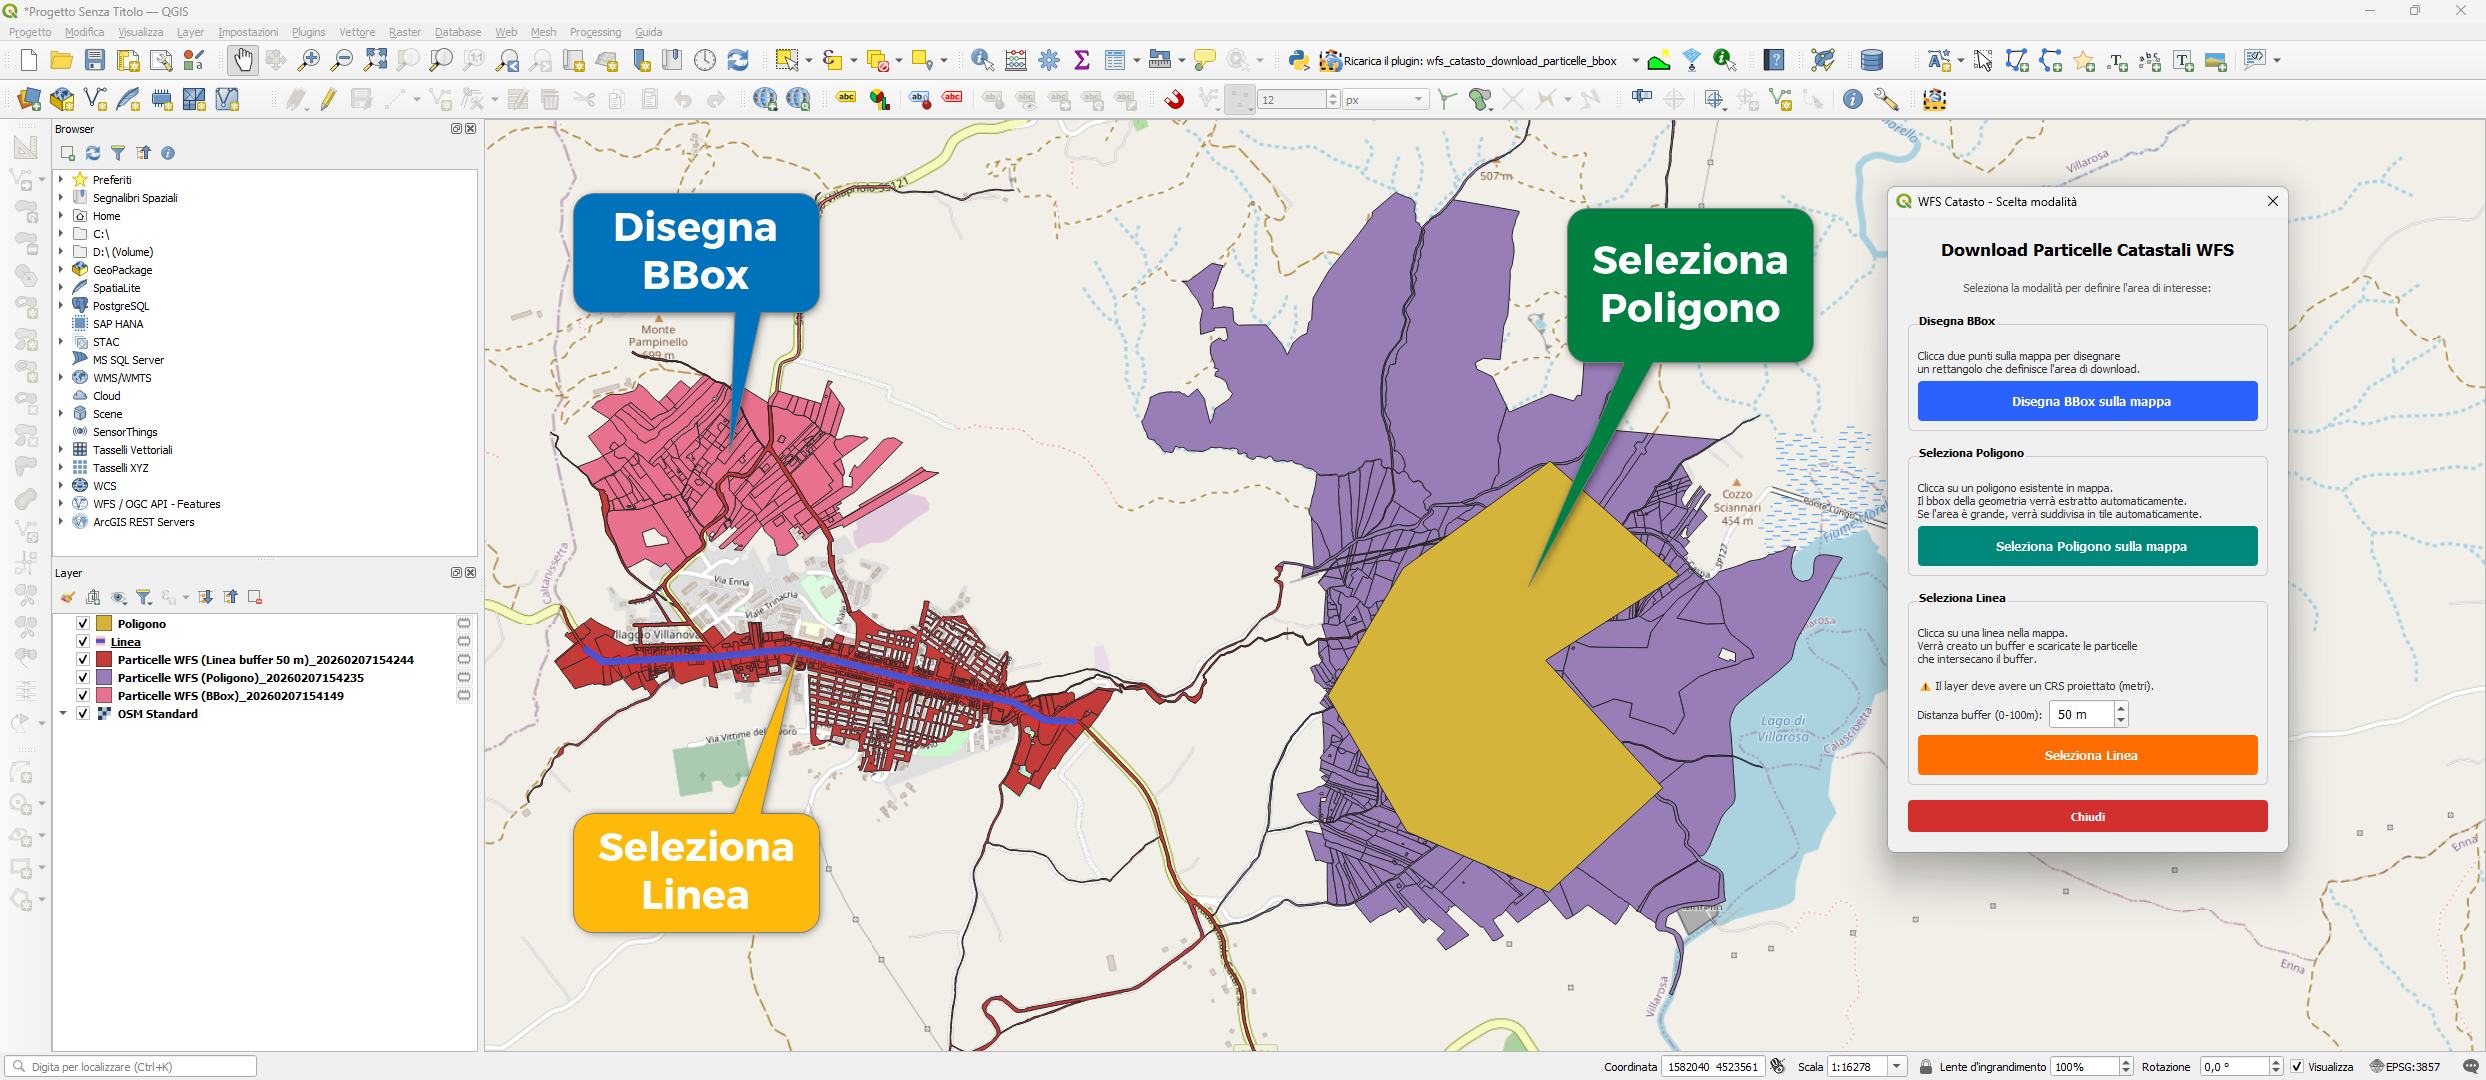
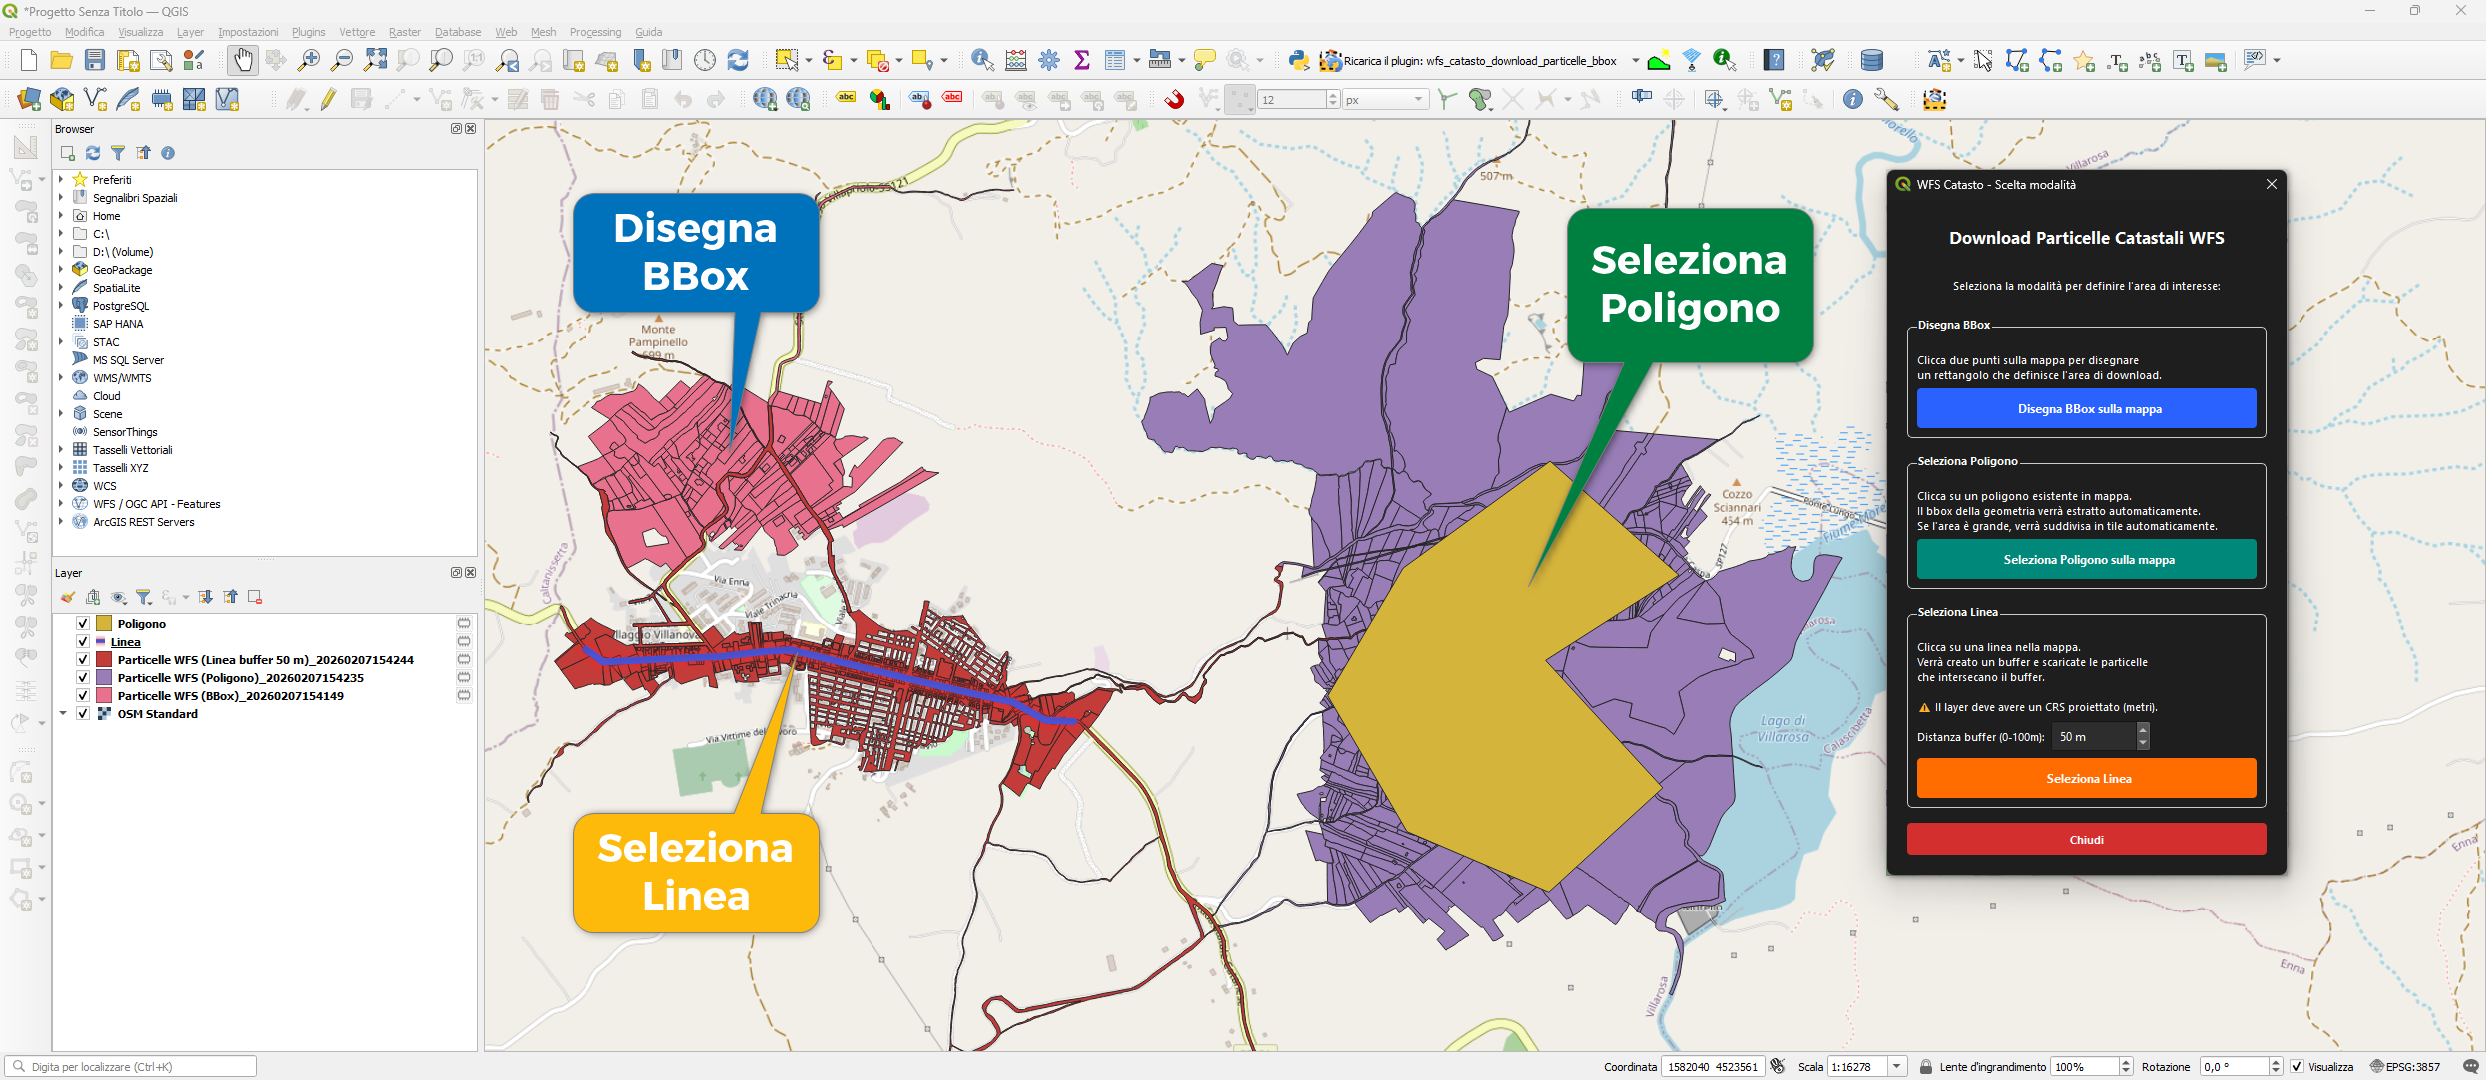
Aggiungi supporto per Qt6 e migliora la compatibilità con QGIS 4

diff --git a/wfs_catasto_download_particelle_bbox_d.py b/wfs_catasto_download_particelle_bbox_d.py
@@ -21,6 +21,20 @@ from qgis.PyQt.QtWidgets import (
     QWidget,
 )
 
+# Compatibilità Qt5 / Qt6 - enum scoped
+try:
+    _WinHelpHint = Qt.WindowType.WindowContextHelpButtonHint
+    _WinCloseHint = Qt.WindowType.WindowCloseButtonHint
+    _WinStaysOnTop = Qt.WindowType.WindowStaysOnTopHint
+    _AlignCenter = Qt.AlignmentFlag.AlignCenter
+    _RichText = Qt.TextFormat.RichText
+except AttributeError:
+    _WinHelpHint = Qt.WindowContextHelpButtonHint
+    _WinCloseHint = Qt.WindowCloseButtonHint
+    _WinStaysOnTop = Qt.WindowStaysOnTopHint
+    _AlignCenter = Qt.AlignCenter
+    _RichText = Qt.RichText
+
 
 class AvvisoDialog(QDialog):
     """Finestra di avviso sull'uso responsabile del plugin (una volta per sessione QGIS)."""
@@ -34,8 +48,8 @@ class AvvisoDialog(QDialog):
         self.setMinimumSize(550, 480)
         self.setWindowFlags(
             self.windowFlags()
-            & ~Qt.WindowContextHelpButtonHint
-            & ~Qt.WindowCloseButtonHint
+            & ~_WinHelpHint
+            & ~_WinCloseHint
         )
 
         layout = QVBoxLayout()
@@ -48,7 +62,7 @@ class AvvisoDialog(QDialog):
         font_titolo.setPointSize(16)
         font_titolo.setBold(True)
         titolo.setFont(font_titolo)
-        titolo.setAlignment(Qt.AlignCenter)
+        titolo.setAlignment(_AlignCenter)
         titolo.setStyleSheet("color: #D32F2F;")
         layout.addWidget(titolo)
 
@@ -81,11 +95,9 @@ class AvvisoDialog(QDialog):
             "utilizzo non conforme alle condizioni del servizio WFS "
             "dell'Agenzia delle Entrate."
         )
-        testo_avviso.setTextFormat(Qt.RichText)
+        testo_avviso.setTextFormat(_RichText)
         testo_avviso.setWordWrap(True)
-        testo_avviso.setStyleSheet(
-            "color: #333; font-size: 12px;"
-        )
+        testo_avviso.setStyleSheet("font-size: 12px;")
         scroll_layout.addWidget(testo_avviso)
         scroll.setWidget(scroll_content)
         layout.addWidget(scroll)
@@ -96,7 +108,7 @@ class AvvisoDialog(QDialog):
             "il plugin in modo responsabile e moderato."
         )
         self.check_accetto.setStyleSheet(
-            "QCheckBox { font-size: 11px; font-weight: bold; color: #333; }"
+            "QCheckBox { font-size: 11px; font-weight: bold; }"
             "QCheckBox::indicator { width: 18px; height: 18px; }"
         )
         self.check_accetto.toggled.connect(self._on_check_toggled)
@@ -151,8 +163,8 @@ class SceltaModalitaDialog(QDialog):
         self.setMinimumWidth(400)
         self.setWindowFlags(
             self.windowFlags()
-            & ~Qt.WindowContextHelpButtonHint
-            | Qt.WindowStaysOnTopHint
+            & ~_WinHelpHint
+            | _WinStaysOnTop
         )
 
         layout = QVBoxLayout()
@@ -165,15 +177,14 @@ class SceltaModalitaDialog(QDialog):
         font_titolo.setPointSize(13)
         font_titolo.setBold(True)
         titolo.setFont(font_titolo)
-        titolo.setAlignment(Qt.AlignCenter)
+        titolo.setAlignment(_AlignCenter)
         layout.addWidget(titolo)
 
         # Sottotitolo
         sottotitolo = QLabel(
             "Seleziona la modalità per definire l'area di interesse:"
         )
-        sottotitolo.setAlignment(Qt.AlignCenter)
-        sottotitolo.setStyleSheet("color: #555;")
+        sottotitolo.setAlignment(_AlignCenter)
         layout.addWidget(sottotitolo)
 
         # --- Gruppo 1: Disegna BBox ---
@@ -189,7 +200,7 @@ class SceltaModalitaDialog(QDialog):
             "un rettangolo che definisce l'area di download."
         )
         desc1.setWordWrap(True)
-        desc1.setStyleSheet("color: #333; font-weight: normal;")
+        desc1.setStyleSheet("font-weight: normal;")
         g1_layout.addWidget(desc1)
 
         btn_disegna = QPushButton("  Disegna BBox sulla mappa")
@@ -219,7 +230,7 @@ class SceltaModalitaDialog(QDialog):
             "Se l'area è grande, verrà suddivisa in tile automaticamente."
         )
         desc2.setWordWrap(True)
-        desc2.setStyleSheet("color: #333; font-weight: normal;")
+        desc2.setStyleSheet("font-weight: normal;")
         g2_layout.addWidget(desc2)
 
         btn_poligono = QPushButton("  Seleziona Poligono sulla mappa")
@@ -250,20 +261,21 @@ class SceltaModalitaDialog(QDialog):
             "\u26a0 Il layer deve avere un CRS proiettato (metri)."
         )
         desc3.setWordWrap(True)
-        desc3.setStyleSheet("color: #333; font-weight: normal;")
+        desc3.setStyleSheet("font-weight: normal;")
         g3_layout.addWidget(desc3)
 
         # Spinbox per valore buffer
         buffer_layout = QHBoxLayout()
         buffer_label = QLabel("Distanza buffer (0-100m):")
-        buffer_label.setStyleSheet("color: #333; font-weight: normal;")
+        buffer_label.setStyleSheet("font-weight: normal;")
         buffer_layout.addWidget(buffer_label)
 
         self.buffer_spinbox = QSpinBox()
         self.buffer_spinbox.setRange(0, 100)
         self.buffer_spinbox.setValue(self._default_buffer_m)
         self.buffer_spinbox.setSuffix(" m")
-        self.buffer_spinbox.setMinimumWidth(80)
+        self.buffer_spinbox.setMinimumWidth(100)
+        self.buffer_spinbox.setMinimumHeight(32)
         self.buffer_spinbox.setStyleSheet(
             "QSpinBox { font-size: 12px; padding: 4px; }"
         )

diff --git a/wfs_catasto_download_particelle_bbox_p.py b/wfs_catasto_download_particelle_bbox_p.py
@@ -91,6 +91,17 @@ def _is_line_layer(layer):
         return layer.geometryType() == 1
 
 
+# Qt enum scoped (Qt6) vs flat (Qt5)
+try:
+    _WindowModal = Qt.WindowModality.WindowModal
+    _DashLine = Qt.PenStyle.DashLine
+    _DialogAccepted = QDialog.DialogCode.Accepted
+except AttributeError:
+    _WindowModal = Qt.WindowModal
+    _DashLine = Qt.DashLine
+    _DialogAccepted = QDialog.Accepted
+
+
 # =============================================================================
 # CONFIGURAZIONE
 # =============================================================================
@@ -350,7 +361,7 @@ def esegui_download_e_caricamento(min_lat, min_lon, max_lat, max_lon, filter_geo
         qgis_iface.mainWindow(),
     )
     progress.setWindowTitle("WFS Catasto - Download")
-    progress.setWindowModality(Qt.WindowModal)
+    progress.setWindowModality(_WindowModal)
     progress.setMinimumDuration(0)
     progress.setAutoClose(False)
     progress.setAutoReset(False)
@@ -683,7 +694,7 @@ class BBoxDrawTool(QgsMapTool):
         self.preview_rb.setColor(QColor(0, 120, 255, 40))
         self.preview_rb.setStrokeColor(QColor(0, 120, 255, 180))
         self.preview_rb.setWidth(2)
-        self.preview_rb.setLineStyle(Qt.DashLine)
+        self.preview_rb.setLineStyle(_DashLine)
 
     def _update_preview(self, second_point):
         if not self.first_point:
@@ -1170,7 +1181,7 @@ class WfsCatastoDownloadParticelleBbox:
         if not self._avviso_accettato:
             avviso = AvvisoDialog(self.iface.mainWindow())
             result_avviso = _exec_dialog(avviso)
-            if result_avviso != QDialog.Accepted:
+            if result_avviso != _DialogAccepted:
                 print("[INFO] Avviso non accettato. Plugin non avviato.")
                 return
             self._avviso_accettato = True
